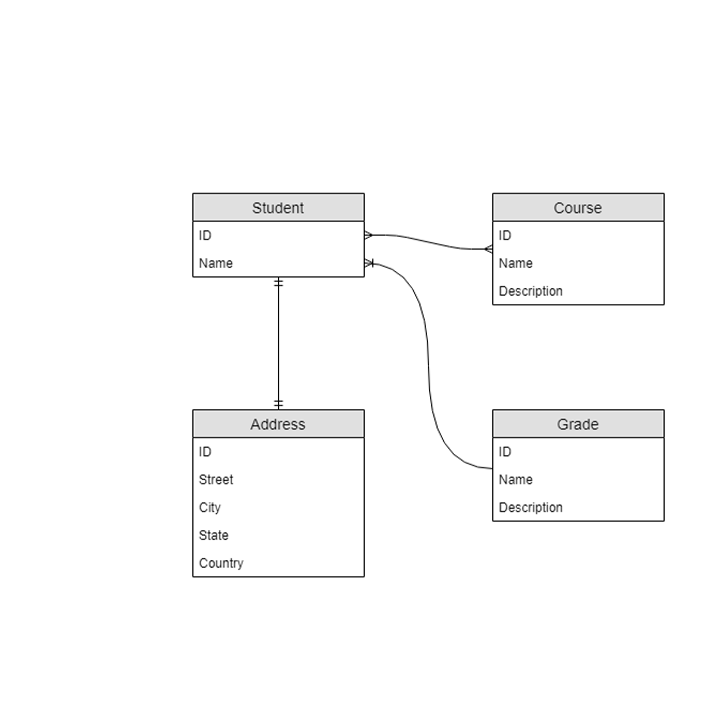
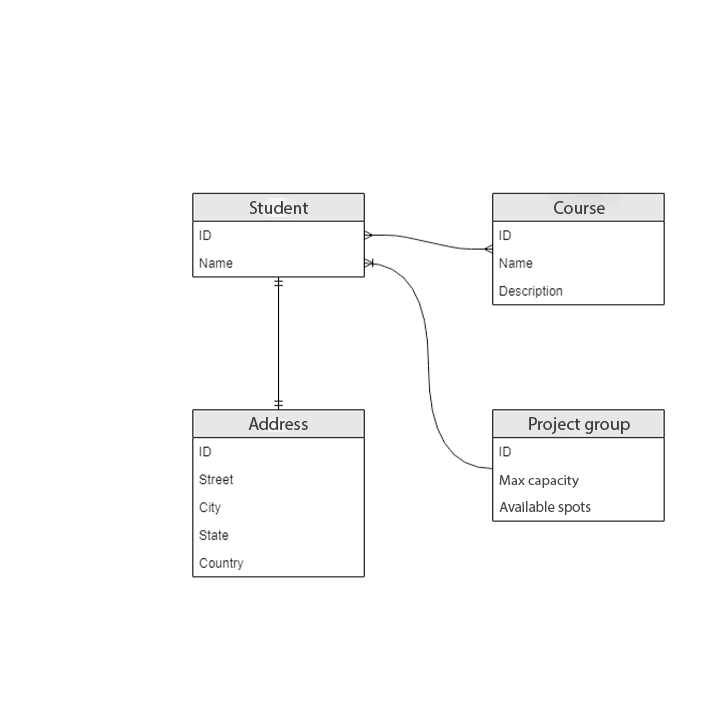
Changed Example schema for EF Core lecture (L04) - pictures and markdown

diff --git a/Lectures/Lecture_04/Lecture.md b/Lectures/Lecture_04/Lecture.md
@@ -576,7 +576,7 @@ public record CourseEntity(Guid Id, string Name, string Description)
 ### Entity in DbContext
 * Classes become entities when they are **included as** `DbSet<TEntity>` properties **in a context class**
 * Properties of type `DbSet<TEntity>` are called **entity sets**
-* `AddressEntity`, `CourseEntity`, `GradeEntity`, `StudentEntity`, `StudentCourseEntity` are **entities** (also known as entity types)
+* `AddressEntity`, `CourseEntity`, `ProjectGroupEntity`, `StudentEntity`, `StudentCourseEntity` are **entities** (also known as entity types)
 
 ```C#
 public class SchoolDbContext : DbContext
@@ -587,7 +587,7 @@ public class SchoolDbContext : DbContext
 
     public DbSet<AddressEntity> Addresses => Set<AddressEntity>();
     public DbSet<CourseEntity> Courses => Set<CourseEntity>();
-    public DbSet<GradeEntity> Grades => Set<GradeEntity>();
+    public DbSet<ProjectGroupEntity> ProjectGroups => Set<ProjectGroupEntity>();
     public DbSet<StudentEntity> Students => Set<StudentEntity>();
     public DbSet<StudentCourseEntity> StudentCourses => Set<StudentCourseEntity>();
 }
@@ -730,7 +730,7 @@ public class SchoolDbContext : DbContext
     
     public DbSet<AddressEntity> Addresses => Set<AddressEntity>();
     public DbSet<CourseEntity> Courses => Set<CourseEntity>();
-    public DbSet<GradeEntity> Grades => Set<GradeEntity>();
+    public DbSet<ProjectGroupEntity> ProjectGroups => Set<ProjectGroupEntity>();
     public DbSet<StudentEntity> Students => Set<StudentEntity>();
     public DbSet<StudentCourseEntity> StudentCourses => Set<StudentCourseEntity>();
 
@@ -1173,9 +1173,9 @@ modelBuilder.Entity<StudentEntity>()
 
 ```C#
 modelBuilder.Entity<StudentEntity>()
-                .HasOne(i => i.Grade)
+                .HasOne(i => i.ProjectGroup)
                 .WithMany(i => i.Students)
-                .HasForeignKey(i=>i.GradeId);
+                .HasForeignKey(i=>i.ProjectGroupId);
 ```
 
 +++
@@ -1185,10 +1185,10 @@ modelBuilder.Entity<StudentEntity>()
 ```C#
 public class Student
 {
-    public Grade Grade { get; set; }
+    public ProjectGroup ProjectGroup { get; set; }
 }
 
-public class Grade{}
+public class ProjectGroup{}
 ```
 
 * *2*
@@ -1196,7 +1196,7 @@ public class Grade{}
 ```C#
 public class Student{}
 
-public class Grade
+public class ProjectGroup
 {
     public ICollection<Student> Students { get; set; } 
 }
@@ -1209,10 +1209,10 @@ public class Grade
 ```C#
 public class Student
 {
-    public Grade Grade { get; set; }
+    public ProjectGroup ProjectGroup { get; set; }
 }
 
-public class Grade
+public class ProjectGroup
 {
     public ICollection<Student> Students { get; set; }
 }
@@ -1223,10 +1223,10 @@ public class Grade
 ```C#
 public class Student
 {
-    public int GradeId { get; set; }
-    public Grade Grade { get; set; }
+    public int ProjectGroupId { get; set; }
+    public ProjectGroup ProjectGroup { get; set; }
 }
-public class Grade
+public class ProjectGroup
 {
     public ICollection<Student> Students { get; set; }
 }
@@ -1237,8 +1237,8 @@ public class Grade
 [Code sample](https://github.com/nesfit/ICS/blob/master/Lectures/Lecture_04/assets/sln/EntityFramework/School.DAL/Entities/StudentEntity.cs)
 
 +++
-<pre><code class="language-csharp" data-sample='assets/sln/EntityFramework/School.DAL/Entities/GradeEntity.cs' data-sample-line-numbers="true" data-sample-indent="remove"></code></pre>
-[Code sample](https://github.com/nesfit/ICS/blob/master/Lectures/Lecture_04/assets/sln/EntityFramework/School.DAL/Entities/GradeEntity.cs)
+<pre><code class="language-csharp" data-sample='assets/sln/EntityFramework/School.DAL/Entities/ProjectGroupEntity.cs' data-sample-line-numbers="true" data-sample-indent="remove"></code></pre>
+[Code sample](https://github.com/nesfit/ICS/blob/master/Lectures/Lecture_04/assets/sln/EntityFramework/School.DAL/Entities/ProjectGroupEntity.cs)
 
 +++
 ### Cascade Delete using Fluent API
@@ -1246,9 +1246,9 @@ public class Grade
 
 ```C#
 modelBuilder.Entity<StudentEntity>()
-                .HasOne(i => i.Grade)
+                .HasOne(i => i.ProjectGroup)
                 .WithMany(i => i.Students)
-                .HasForeignKey(i=>i.GradeId)
+                .HasForeignKey(i=>i.ProjectGroupId)
                 .OnDelete(DeleteBehavior.Cascade);
 ```
 
